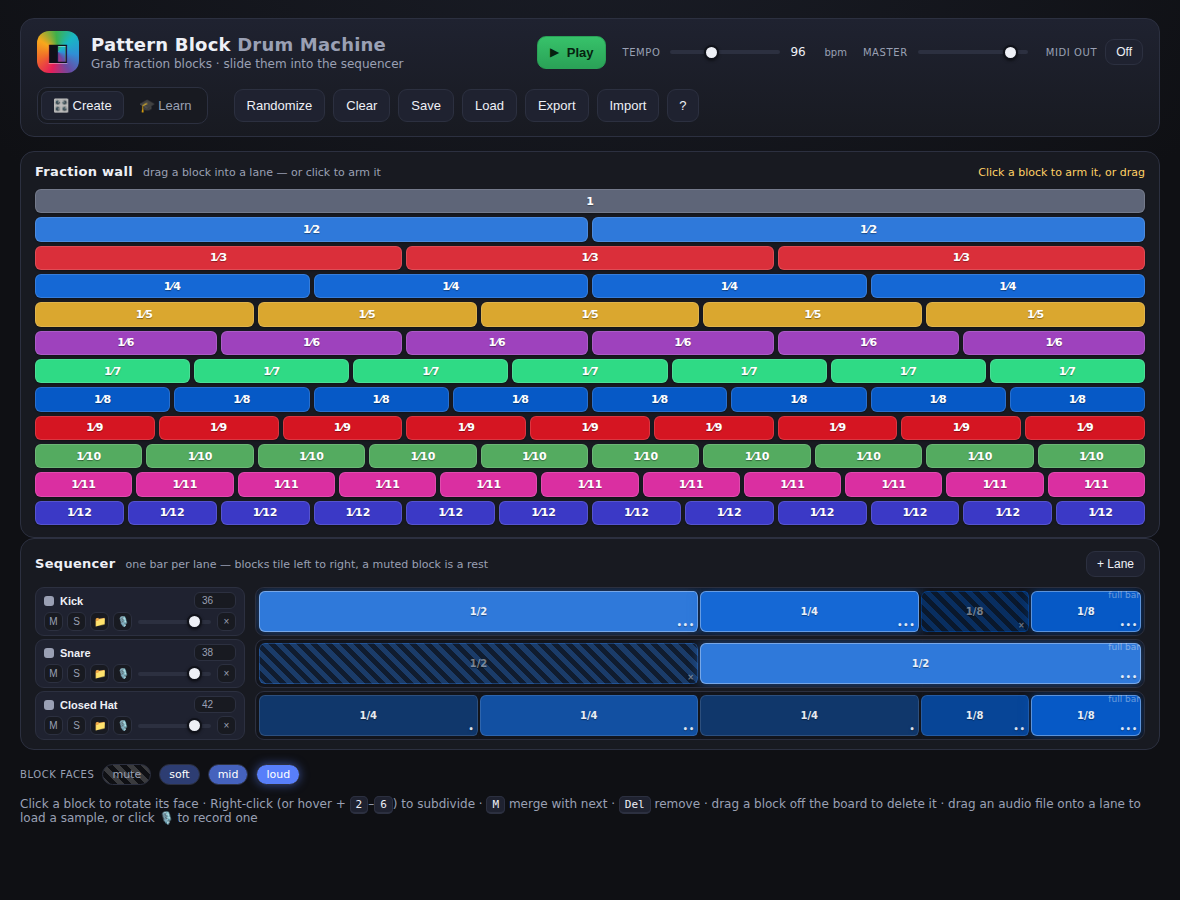
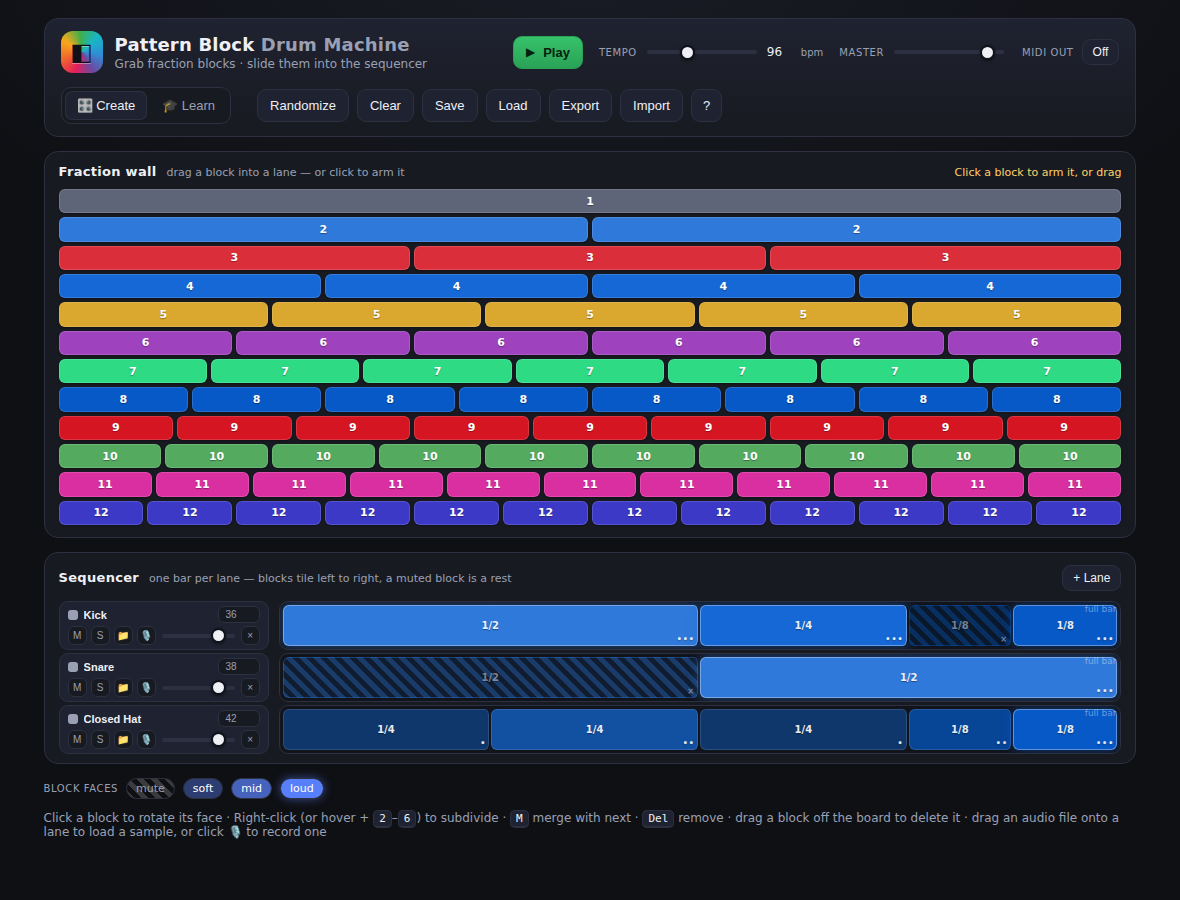
Responsive two-column layout for wide windows
The wall + sequencer used to always stack in one narrow column even on
a wide browser window, wasting horizontal space and forcing a lot of
vertical scrolling — especially once the wall grows past 12 rows from
subdivision.

- main now goes row-flex above 1300px: a fixed sidebar (wall + Groove
  Lab) beside a flexible-width sequencer, so wide screens use their
  width instead of just centering a fixed 1180px column.
- #app's max-width scales up to 1680px on wide viewports instead of
  staying capped at 1180px.
- Wall block labels now show just the denominator ("15" not "1/15") —
  every wall block is a unit fraction by definition, so the prefix was
  redundant, and dropping it keeps labels legible in the narrower
  sidebar even at high denominators (verified down to 24 columns).
- section-head now wraps as whole phrases instead of mid-word, since a
  narrower sidebar can't always fit a title, subtitle and hint on one
  line.

Below 1300px (and the existing 720px mobile breakpoint) the layout is
unchanged. Cache-bust bumped to v=10.

Claude-Session: https://claude.ai/code/session_01JLy3ZtVPaGqb343nudpiEm

diff --git a/index.html b/index.html
@@ -5,7 +5,7 @@
   <meta name="viewport" content="width=device-width, initial-scale=1.0" />
   <title>Pattern Block Drum Machine</title>
   <meta name="description" content="Grab fraction blocks from the wall and slide them into a sampler sequencer. Rotate block faces for dynamics, subdivide beats." />
-  <link rel="stylesheet" href="styles.css?v=9" />
+  <link rel="stylesheet" href="styles.css?v=10" />
 </head>
 <body>
   <div id="app">
@@ -58,49 +58,51 @@
     </header>
 
     <main>
-      <section class="panel palette-wrap">
-        <div class="section-head">
-          <span class="section-title">Fraction wall</span>
-          <span class="section-sub">drag a block into a lane — or click to arm it</span>
-          <span id="brushInfo" class="brush-info">Click a block to arm it, or drag</span>
-        </div>
-        <div id="palette" class="palette" aria-label="Fraction block palette"></div>
-      </section>
-
-      <section class="panel lab-wrap" id="labPanel" hidden>
-        <div class="section-head">
-          <span class="section-title">🎓 Groove Lab</span>
-          <span class="section-sub">pick two numbers and see how they groove together</span>
-          <button id="labUseLanes" class="btn btn-sm" title="Fill in from two lanes you've built">Use my lanes</button>
-        </div>
-        <div class="lab-body">
-          <div class="lab-inputs">
-            <label>A <input id="labA" type="number" min="1" max="32" value="2" /></label>
-            <span class="lab-vs">against</span>
-            <label>B <input id="labB" type="number" min="1" max="32" value="3" /></label>
+      <div class="board-col">
+        <section class="panel palette-wrap">
+          <div class="section-head">
+            <span class="section-title">Fraction wall</span>
+            <span class="section-sub">drag a block into a lane — or click to arm it</span>
+            <span id="brushInfo" class="brush-info">Click a block to arm it, or drag</span>
           </div>
+          <div id="palette" class="palette" aria-label="Fraction block palette"></div>
+        </section>
 
-          <div class="lab-math">
-            <div id="labFactA" class="lab-fact"></div>
-            <span class="lab-op">×</span>
-            <div id="labFactB" class="lab-fact"></div>
+        <section class="panel lab-wrap" id="labPanel" hidden>
+          <div class="section-head">
+            <span class="section-title">🎓 Groove Lab</span>
+            <span class="section-sub">pick two numbers and see how they groove together</span>
+            <button id="labUseLanes" class="btn btn-sm" title="Fill in from two lanes you've built">Use my lanes</button>
           </div>
+          <div class="lab-body">
+            <div class="lab-inputs">
+              <label>A <input id="labA" type="number" min="1" max="32" value="2" /></label>
+              <span class="lab-vs">against</span>
+              <label>B <input id="labB" type="number" min="1" max="32" value="3" /></label>
+            </div>
 
-          <div class="lab-results">
-            <div class="lab-stat"><span class="lab-stat-label">HCF (GCD)</span><span id="labGcd" class="lab-stat-val"></span></div>
-            <div class="lab-stat"><span class="lab-stat-label">LCD (LCM)</span><span id="labLcm" class="lab-stat-val"></span></div>
-            <div class="lab-stat"><span class="lab-stat-label">Funk level</span><span id="labFunk" class="lab-stat-val"></span></div>
+            <div class="lab-math">
+              <div id="labFactA" class="lab-fact"></div>
+              <span class="lab-op">×</span>
+              <div id="labFactB" class="lab-fact"></div>
+            </div>
+
+            <div class="lab-results">
+              <div class="lab-stat"><span class="lab-stat-label">HCF (GCD)</span><span id="labGcd" class="lab-stat-val"></span></div>
+              <div class="lab-stat"><span class="lab-stat-label">LCD (LCM)</span><span id="labLcm" class="lab-stat-val"></span></div>
+              <div class="lab-stat"><span class="lab-stat-label">Funk level</span><span id="labFunk" class="lab-stat-val"></span></div>
+            </div>
+
+            <p id="labExplain" class="lab-explain"></p>
+
+            <div class="lab-row">
+              <button id="labPlayGroove" class="btn">▶ Hear the polyrhythm</button>
+              <button id="labPlayTone" class="btn">🎵 Hear it as a pitch</button>
+              <span id="labInterval" class="lab-interval-name"></span>
+            </div>
           </div>
-
-          <p id="labExplain" class="lab-explain"></p>
-
-          <div class="lab-row">
-            <button id="labPlayGroove" class="btn">▶ Hear the polyrhythm</button>
-            <button id="labPlayTone" class="btn">🎵 Hear it as a pitch</button>
-            <span id="labInterval" class="lab-interval-name"></span>
-          </div>
-        </div>
-      </section>
+        </section>
+      </div>
 
       <section class="panel seq-wrap">
         <div class="section-head">
@@ -204,6 +206,6 @@
   <input id="fileInput" type="file" accept="audio/*" hidden />
   <input id="jsonInput" type="file" accept="application/json,.json" hidden />
 
-  <script src="app.js?v=9"></script>
+  <script src="app.js?v=10"></script>
 </body>
 </html>

diff --git a/styles.css b/styles.css
@@ -22,13 +22,25 @@ html, body {
 }
 
 #app {
-  max-width: 1180px;
+  max-width: min(1180px, 96vw);
   margin: 0 auto;
   padding: 18px 20px 28px;
   display: flex;
   flex-direction: column;
   gap: 14px;
   min-height: 100vh;
+}
+/* Wide screens: let the app use the extra width instead of centering a
+   fixed-width column, so the two-panel layout below has room to sit
+   side by side rather than stacking and forcing a tall page. */
+@media (min-width: 1300px) { #app { max-width: min(1680px, 96vw); } }
+
+main { display: flex; flex-direction: column; gap: 14px; }
+.board-col { display: flex; flex-direction: column; gap: 14px; min-width: 0; }
+@media (min-width: 1300px) {
+  main { flex-direction: row; align-items: flex-start; }
+  .board-col { flex: 0 0 440px; }
+  .seq-wrap { flex: 1 1 0; min-width: 0; }
 }
 
 /* ---------- Top bar ---------- */
@@ -102,7 +114,7 @@ input[type=range]::-moz-range-thumb {
 .panel {
   background: var(--panel); border: 1px solid var(--line); border-radius: 14px; padding: 12px 14px;
 }
-.section-head { display: flex; align-items: baseline; gap: 10px; margin-bottom: 10px; }
+.section-head { display: flex; align-items: baseline; gap: 6px 10px; flex-wrap: wrap; margin-bottom: 10px; }
 .section-title { font-size: 13px; font-weight: 700; letter-spacing: .3px; }
 .section-sub { font-size: 11px; color: var(--muted); }
 

diff --git a/app.js b/app.js
@@ -514,7 +514,9 @@ function renderPalette() {
       b.style.setProperty('--c', denColor(den));
       b.draggable = true;
       b.dataset.n = 1; b.dataset.d = den;
-      b.innerHTML = den === 1 ? '1' : `<span>1&frasl;${den}</span>`;
+      // Every wall block is a unit fraction, so the "1/" is implied — just show
+      // the denominator. Keeps labels legible even when a row has many columns.
+      b.innerHTML = den === 1 ? '1' : `<span>${den}</span>`;
       b.title = den === 1 ? 'A whole bar — click to arm, or drag' : `A 1/${den} block — click to arm, or drag into a lane`;
       b.addEventListener('click', () => setArmed(1, den));
       b.addEventListener('dragstart', (e) => {
